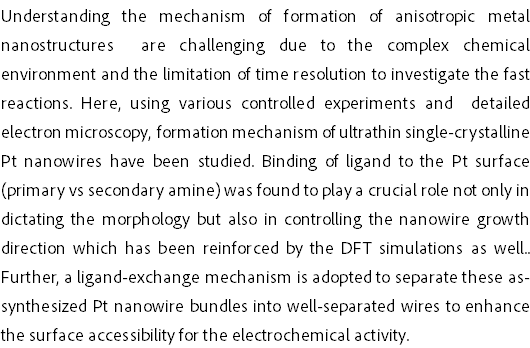
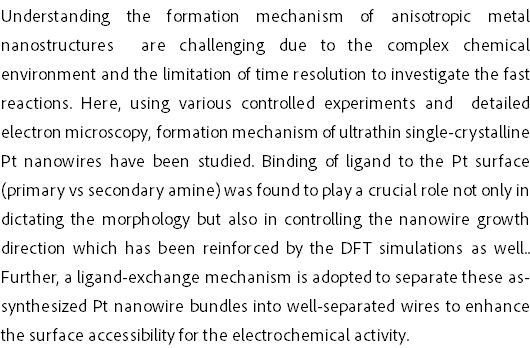
update

Changed region(s): [[0.2113, 0.0287, 0.9057, 0.0862]]

diff --git a/research.html b/research.html
@@ -85,7 +85,7 @@
      <div class="clip_frame grpelem" id="u9836"><!-- image -->
       <img class="block" id="u9836_img" src="images/jpcc-2021-deba.jpg" alt="" width="465" height="259"/>
      </div>
-     <img class="grpelem" id="u9835-4" alt="Understanding the mechanism of formation of anisotropic metal nanostructures are challenging due to the complex chemical environment and the limitation of time resolution to investigate the fast reactions. Here, using various controlled experiments and detailed electron microscopy, formation mechanism of ultrathin single-crystalline Pt nanowires have been studied. Binding of ligand to the Pt surface (primary vs secondary amine) was found to play a crucial role not only in dictating the morphology but also in controlling the nanowire growth direction which has been reinforced by the DFT simulations as well.. Further, a ligand-exchange mechanism is adopted to separate these as-synthesized Pt nanowire bundles into well-separated wires to enhance the surface accessibility for the electrochemical activity. " width="530" height="348" src="images/u9835-4.png"/><!-- rasterized frame -->
+     <img class="grpelem" id="u9835-4" alt="Understanding the formation mechanism of anisotropic metal nanostructures are challenging due to the complex chemical environment and the limitation of time resolution to investigate the fast reactions. Here, using various controlled experiments and detailed electron microscopy, formation mechanism of ultrathin single-crystalline Pt nanowires have been studied. Binding of ligand to the Pt surface (primary vs secondary amine) was found to play a crucial role not only in dictating the morphology but also in controlling the nanowire growth direction which has been reinforced by the DFT simulations as well.. Further, a ligand-exchange mechanism is adopted to separate these as-synthesized Pt nanowire bundles into well-separated wires to enhance the surface accessibility for the electrochemical activity. " width="530" height="348" src="images/u9835-4.png"/><!-- rasterized frame -->
     </div>
     <div class="clearfix colelem" id="pu9845-4"><!-- group -->
      <img class="grpelem" id="u9845-4" alt="To know more, see our recent paper in J. Phys. Chem. C.." width="368" height="30" src="images/u9845-4.png"/><!-- rasterized frame -->
